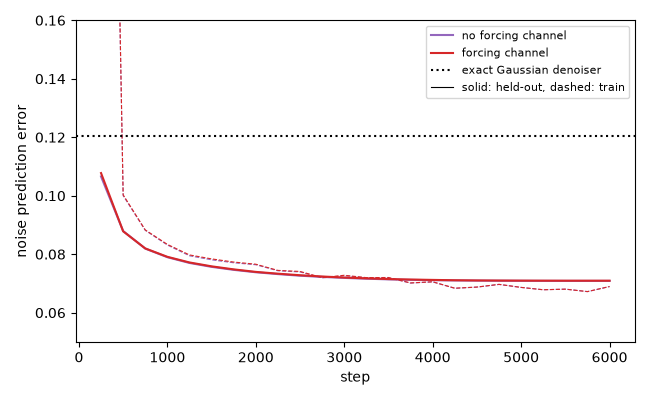
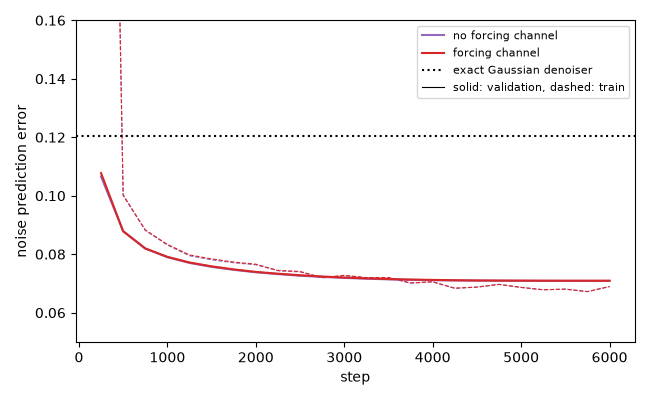
Call the checkpoint selection loss a validation loss

Changed region(s): [[0.6462, 0.06, 0.9231, 0.24]]

diff --git a/scripts/report.py b/scripts/report.py
@@ -304,7 +304,7 @@ def networks_table() -> str | None:
         ]
         cells.append(column)
     labels = [
-        "held-out noise error",
+        "validation noise error",
         "E(k) mean abs log ratio, low",
         "E(k) mean abs log ratio, mid",
         "E(k) mean abs log ratio, high",
@@ -344,16 +344,16 @@ def training_lines() -> list[str]:
             f"- {label}: {t['parameters']:,} parameters, {t['steps']} steps of "
             f"batch {t['batch']} on {t['device']} in "
             f"{g(t['wall_clock_seconds'] / 60)} minutes, final train loss "
-            f"{g(t['final_train_loss'])}, held-out loss "
+            f"{g(t['final_train_loss'])}, validation loss "
             f"{g(t['final_val_loss_ema'])}, selected step {t['selected_step']} "
-            f"(held-out loss {g(t['selected_val_loss_ema'])})."
+            f"(validation loss {g(t['selected_val_loss_ema'])})."
         )
     diag = RESULTS / "diagnostics.json"
     if out and diag.exists():
         setup = json.loads(diag.read_text())["setup"]
         if "gaussian_validation_loss" in setup:
             out.append(
-                "- exact Gaussian denoiser, same held-out fields, timesteps and "
+                "- exact Gaussian denoiser, same validation fields, timesteps and "
                 f"noise: loss {g(setup['gaussian_validation_loss'])}."
             )
     return out

diff --git a/scripts/evaluate.py b/scripts/evaluate.py
@@ -126,14 +126,14 @@ def main() -> None:
         g = torch.Generator().manual_seed(args.seed + 1 + i)
         sources[name] = field.sample(args.samples, g)
     oracle = GaussianDenoiser(gens["g_mode"].power / sigma**2, sched)
-    held = data["val"].reshape(-1, n, n).double() / sigma
-    held = torch.cat([held, held])
+    val = data["val"].reshape(-1, n, n).double() / sigma
+    val = torch.cat([val, val])
     noise = torch.randn(
-        (len(held), 1, n, n), generator=torch.Generator().manual_seed(12345)
+        (len(val), 1, n, n), generator=torch.Generator().manual_seed(12345)
     )
-    t = (torch.arange(len(held)) * 397) % sched.steps
+    t = (torch.arange(len(val)) * 397) % sched.steps
     gaussian_loss = noise_prediction_error(
-        gens["g_mode"].power / sigma**2, sched, held, t, noise[:, 0]
+        gens["g_mode"].power / sigma**2, sched, val, t, noise[:, 0]
     )
     model = load_model(args.work / "ema.pt", args.base, args.forcing, device)
     for name, net, steps in (

diff --git a/scripts/train.py b/scripts/train.py
@@ -2,7 +2,7 @@
 
 Writes results/train.json and results/train_log.csv (train_x.json and
 train_log_x.csv with --tag _x). The weights go to --work and are not tracked:
-one EMA checkpoint per evaluation, and ema.pt, the one with the lowest held-out
+one EMA checkpoint per evaluation, and ema.pt, the one with the lowest validation
 noise-prediction error. A GPU is recommended; on a CPU use a few steps to test.
 """
 
@@ -31,7 +31,7 @@ def learning_rate(step: int, steps: int, lr: float, warmup: int) -> float:
 
 @torch.no_grad()
 def validation_loss(model, sched, fields, device) -> float:
-    """Noise-prediction error on held-out fields, with fixed timesteps and noise."""
+    """Noise-prediction error on validation fields, with fixed timesteps and noise."""
     fields = torch.cat([fields, fields])
     g = torch.Generator().manual_seed(12345)
     noise = torch.randn(fields.shape, generator=g).to(device)

diff --git a/scripts/figures.py b/scripts/figures.py
@@ -246,7 +246,7 @@ def training_figure(gaussian_loss):
         )
     ax.set_ylim(0.05, 0.16)
     ax.set_xlabel("step")
-    ax.plot([], [], color="black", lw=0.8, label="solid: held-out, dashed: train")
+    ax.plot([], [], color="black", lw=0.8, label="solid: validation, dashed: train")
     ax.set_ylabel("noise prediction error")
     ax.legend(fontsize=8)
     fig.tight_layout()

diff --git a/README.md b/README.md
@@ -24,14 +24,15 @@ spectrum of the training set. A second experiment reconstructs a field from its 
   vorticity increments at the smallest separation is 4.1 for both networks, 4.46 for held-out
   fields and 3.0 to 3.1 for the Gaussian fields. After one eddy turnover time in the solver the
   spectrum of the Gaussian fields changes by 0.17 to 0.22 (mean abs log ratio) against 0.026 and
-  0.036 for the networks and 0.001 for real fields. On held-out fields the network predicts the
-  noise with an error of 0.071, the exact Gaussian denoiser with 0.120.
+  0.036 for the networks and 0.001 for real fields. On the validation fields, which also select
+  the checkpoint, the network predicts the noise with an error of 0.071 and the exact Gaussian
+  denoiser with 0.120 (the noise error on the test fields was not computed).
 - **The forcing channel fixes the phase, the drift under the solver and part of the
   reconstruction error, not the spectrum or the tails.** The coherence of the forced Fourier
   mode is 0.974 and 0.971 for two seeds with the channel (real fields 0.966) and 0.039 without
   it. With the channel, energy and enstrophy change by less than 2 percent in the solver (-8.3
   and -10 percent without it). The spectrum error (0.44 and 0.43 against 0.43) and the
-  held-out noise error (0.0709 and 0.0707 against 0.0709) do not change, and excess kurtosis is
+  validation noise error (0.0709 and 0.0707 against 0.0709) do not change, and excess kurtosis is
   a little higher (0.37 against 0.33). Reconstructions have about 10 percent lower L2 error.
 - **Sparse reconstruction by replacement does not beat Gaussian conditioning.** At 1 percent of
   the points the L2 error of a diffusion reconstruction is 1.12, that of a kriging posterior
@@ -44,12 +45,13 @@ spectrum of the training set. A second experiment reconstructs a field from its 
 Every table below is printed by `scripts/report.py` from the files in `results/`, and
 `scripts/figures.py` draws the figures from the same files. The numbers in the text are read
 from these tables and figures (the ratios of spectra from `results/diagnostics.json`). The
-reference set is 500 fields from two solver trajectories that were not used for training. The
-diagnostics use 500 generated fields per row and one sampler seed, the reconstruction uses 100
-test fields and three sampler seeds. "Forcing channel" is the network with the extra input
-channel and "no forcing channel" the one without; both have 3.57 million parameters and were
-trained with the same settings. Rows and tables of the channel network are its seed 0 unless a
-column says seed 1.
+reference set (held-out, or test) is 500 fields from two solver trajectories that were not used
+for training. A third trajectory (validation, 250 fields) selects the checkpoint, the DDIM start
+and the replacement variant. The diagnostics use 500 generated fields per row and one sampler
+seed, the reconstruction uses 100 test fields and three sampler seeds. "Forcing channel" is the
+network with the extra input channel and "no forcing channel" the one without; both have 3.57
+million parameters and were trained with the same settings. Rows and tables of the channel
+network are its seed 0 unless a column says seed 1.
 
 ### The solver and its data
 
@@ -251,7 +253,7 @@ it once). The table sets the three runs side by side with the same samples and m
 
 | metric | no forcing channel, seed 0 | forcing channel, seed 0 | forcing channel, seed 1 |
 |---|---|---|---|
-| held-out noise error | 0.0709 | 0.0709 | 0.0707 |
+| validation noise error | 0.0709 | 0.0709 | 0.0707 |
 | E(k) mean abs log ratio, low | 0.292 | 0.331 | 0.336 |
 | E(k) mean abs log ratio, mid | 0.308 | 0.303 | 0.317 |
 | E(k) mean abs log ratio, high | 0.542 | 0.552 | 0.53 |
@@ -278,7 +280,7 @@ it once). The table sets the three runs side by side with the same samples and m
   and -10 percent), the E(k) change (0.026 and 0.027 against 0.036) and the reconstruction L2 error
   (1.12 and 1.12 against 1.24 at 1 percent of the points, 0.63 and 0.65 against 0.70 at 10 percent).
 - Not different, or by about as much as the two seeds differ: the E(k) error (0.439 and 0.432
-  against 0.428) and the held-out noise error (0.0709 and 0.0707 against 0.0709).
+  against 0.428) and the validation noise error (0.0709 and 0.0707 against 0.0709).
 - Slightly worse with the channel in both seeds: the low band of the spectrum (0.33 and 0.34
   against 0.29), excess kurtosis (0.371 and 0.373 against 0.331) and the KS distance (0.043 and
   0.044 against 0.040), where the gap between the two kinds of network is 7 to 8, about 20 and
@@ -289,16 +291,20 @@ it once). The table sets the three runs side by side with the same samples and m
 
 ### Training
 
-- no forcing channel: 3,566,977 parameters, 6000 steps of batch 64 on Tesla T4 in 22 minutes, final train loss 0.0689, held-out loss 0.0709, selected step 5750 (held-out loss 0.0709).
-- forcing channel: 3,567,409 parameters, 6000 steps of batch 64 on Tesla T4 in 21.3 minutes, final train loss 0.069, held-out loss 0.0709, selected step 5750 (held-out loss 0.0709).
-- forcing channel, seed 1: 3,567,409 parameters, 6000 steps of batch 64 on Tesla T4 in 19.7 minutes, final train loss 0.0672, held-out loss 0.0707, selected step 5750 (held-out loss 0.0707).
-- exact Gaussian denoiser, same held-out fields, timesteps and noise: loss 0.12.
+- no forcing channel: 3,566,977 parameters, 6000 steps of batch 64 on Tesla T4 in 22 minutes, final train loss 0.0689, validation loss 0.0709, selected step 5750 (validation loss 0.0709).
+- forcing channel: 3,567,409 parameters, 6000 steps of batch 64 on Tesla T4 in 21.3 minutes, final train loss 0.069, validation loss 0.0709, selected step 5750 (validation loss 0.0709).
+- forcing channel, seed 1: 3,567,409 parameters, 6000 steps of batch 64 on Tesla T4 in 19.7 minutes, final train loss 0.0672, validation loss 0.0707, selected step 5750 (validation loss 0.0707).
+- exact Gaussian denoiser, same validation fields, timesteps and noise: loss 0.12.
 
-![Held-out and training noise error against the training step](results/training.png)
+![Validation and training noise error against the training step](results/training.png)
 
 The two curves lie on top of each other. The training error is a running mean over 250 steps with
-dropout on, the held-out error comes from the EMA weights without dropout; the training error is
-above the held-out error until step 3500 and below it from step 3750.
+dropout on, the validation error comes from the EMA weights without dropout; the training error is
+above the validation error until step 3500 and below it from step 3750.
+
+The validation fields also pick the checkpoint (the lowest of 24 evaluations), the DDIM start and
+the replacement variant, so these losses are selection criteria and not test results. The loss on
+the test fields was not computed: the weights were not kept.
 
 ## What is in the repo
 
